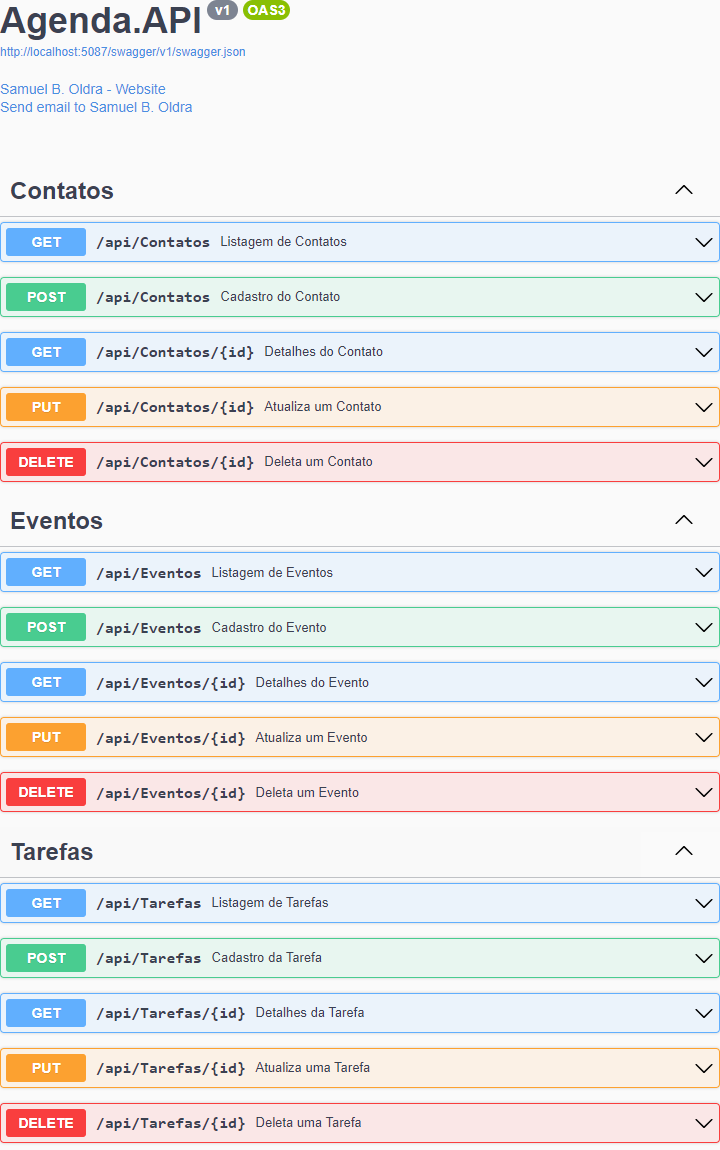
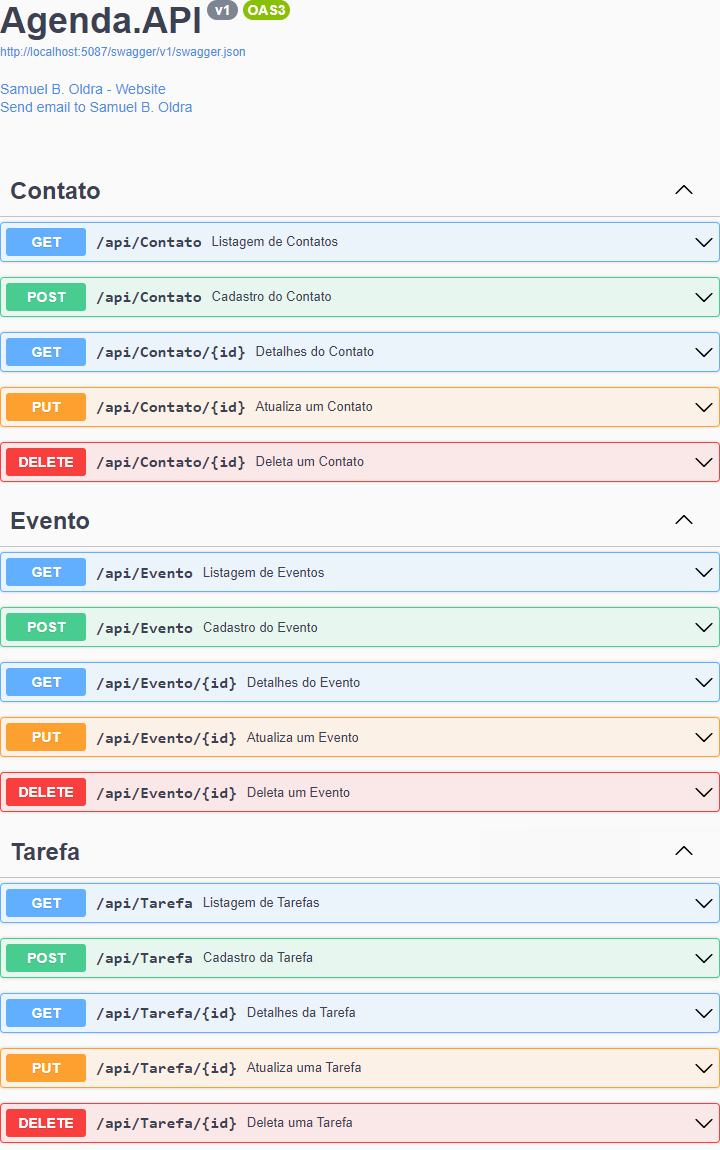
Renomeado nome dos controllers (singular)

diff --git a/Agenda.API/Controllers/ContatoController.cs b/Agenda.API/Controllers/ContatoController.cs
@@ -6,7 +6,7 @@ namespace Agenda.API.Controllers
 {
     [ApiController]
     [Route("api/[controller]")]
-    public class ContatosController : ControllerBase
+    public class ContatoController : ControllerBase
     {
         // GET: api/contatos
         /// <summary>

diff --git a/Agenda.API/Controllers/EventoController.cs b/Agenda.API/Controllers/EventoController.cs
@@ -7,7 +7,7 @@ namespace Agenda.API.Controllers
 {
     [ApiController]
     [Route("api/[controller]")]
-    public class EventosController : ControllerBase
+    public class EventoController : ControllerBase
     {
         // GET: api/eventos
         /// <summary>

diff --git a/Agenda.API/Controllers/TarefaController.cs b/Agenda.API/Controllers/TarefaController.cs
@@ -8,7 +8,7 @@ namespace Agenda.API.Controllers
 {
     [ApiController]
     [Route("api/[controller]")]
-    public class TarefasController : ControllerBase
+    public class TarefaController : ControllerBase
     {
         // GET: api/tarefas
         /// <summary>
